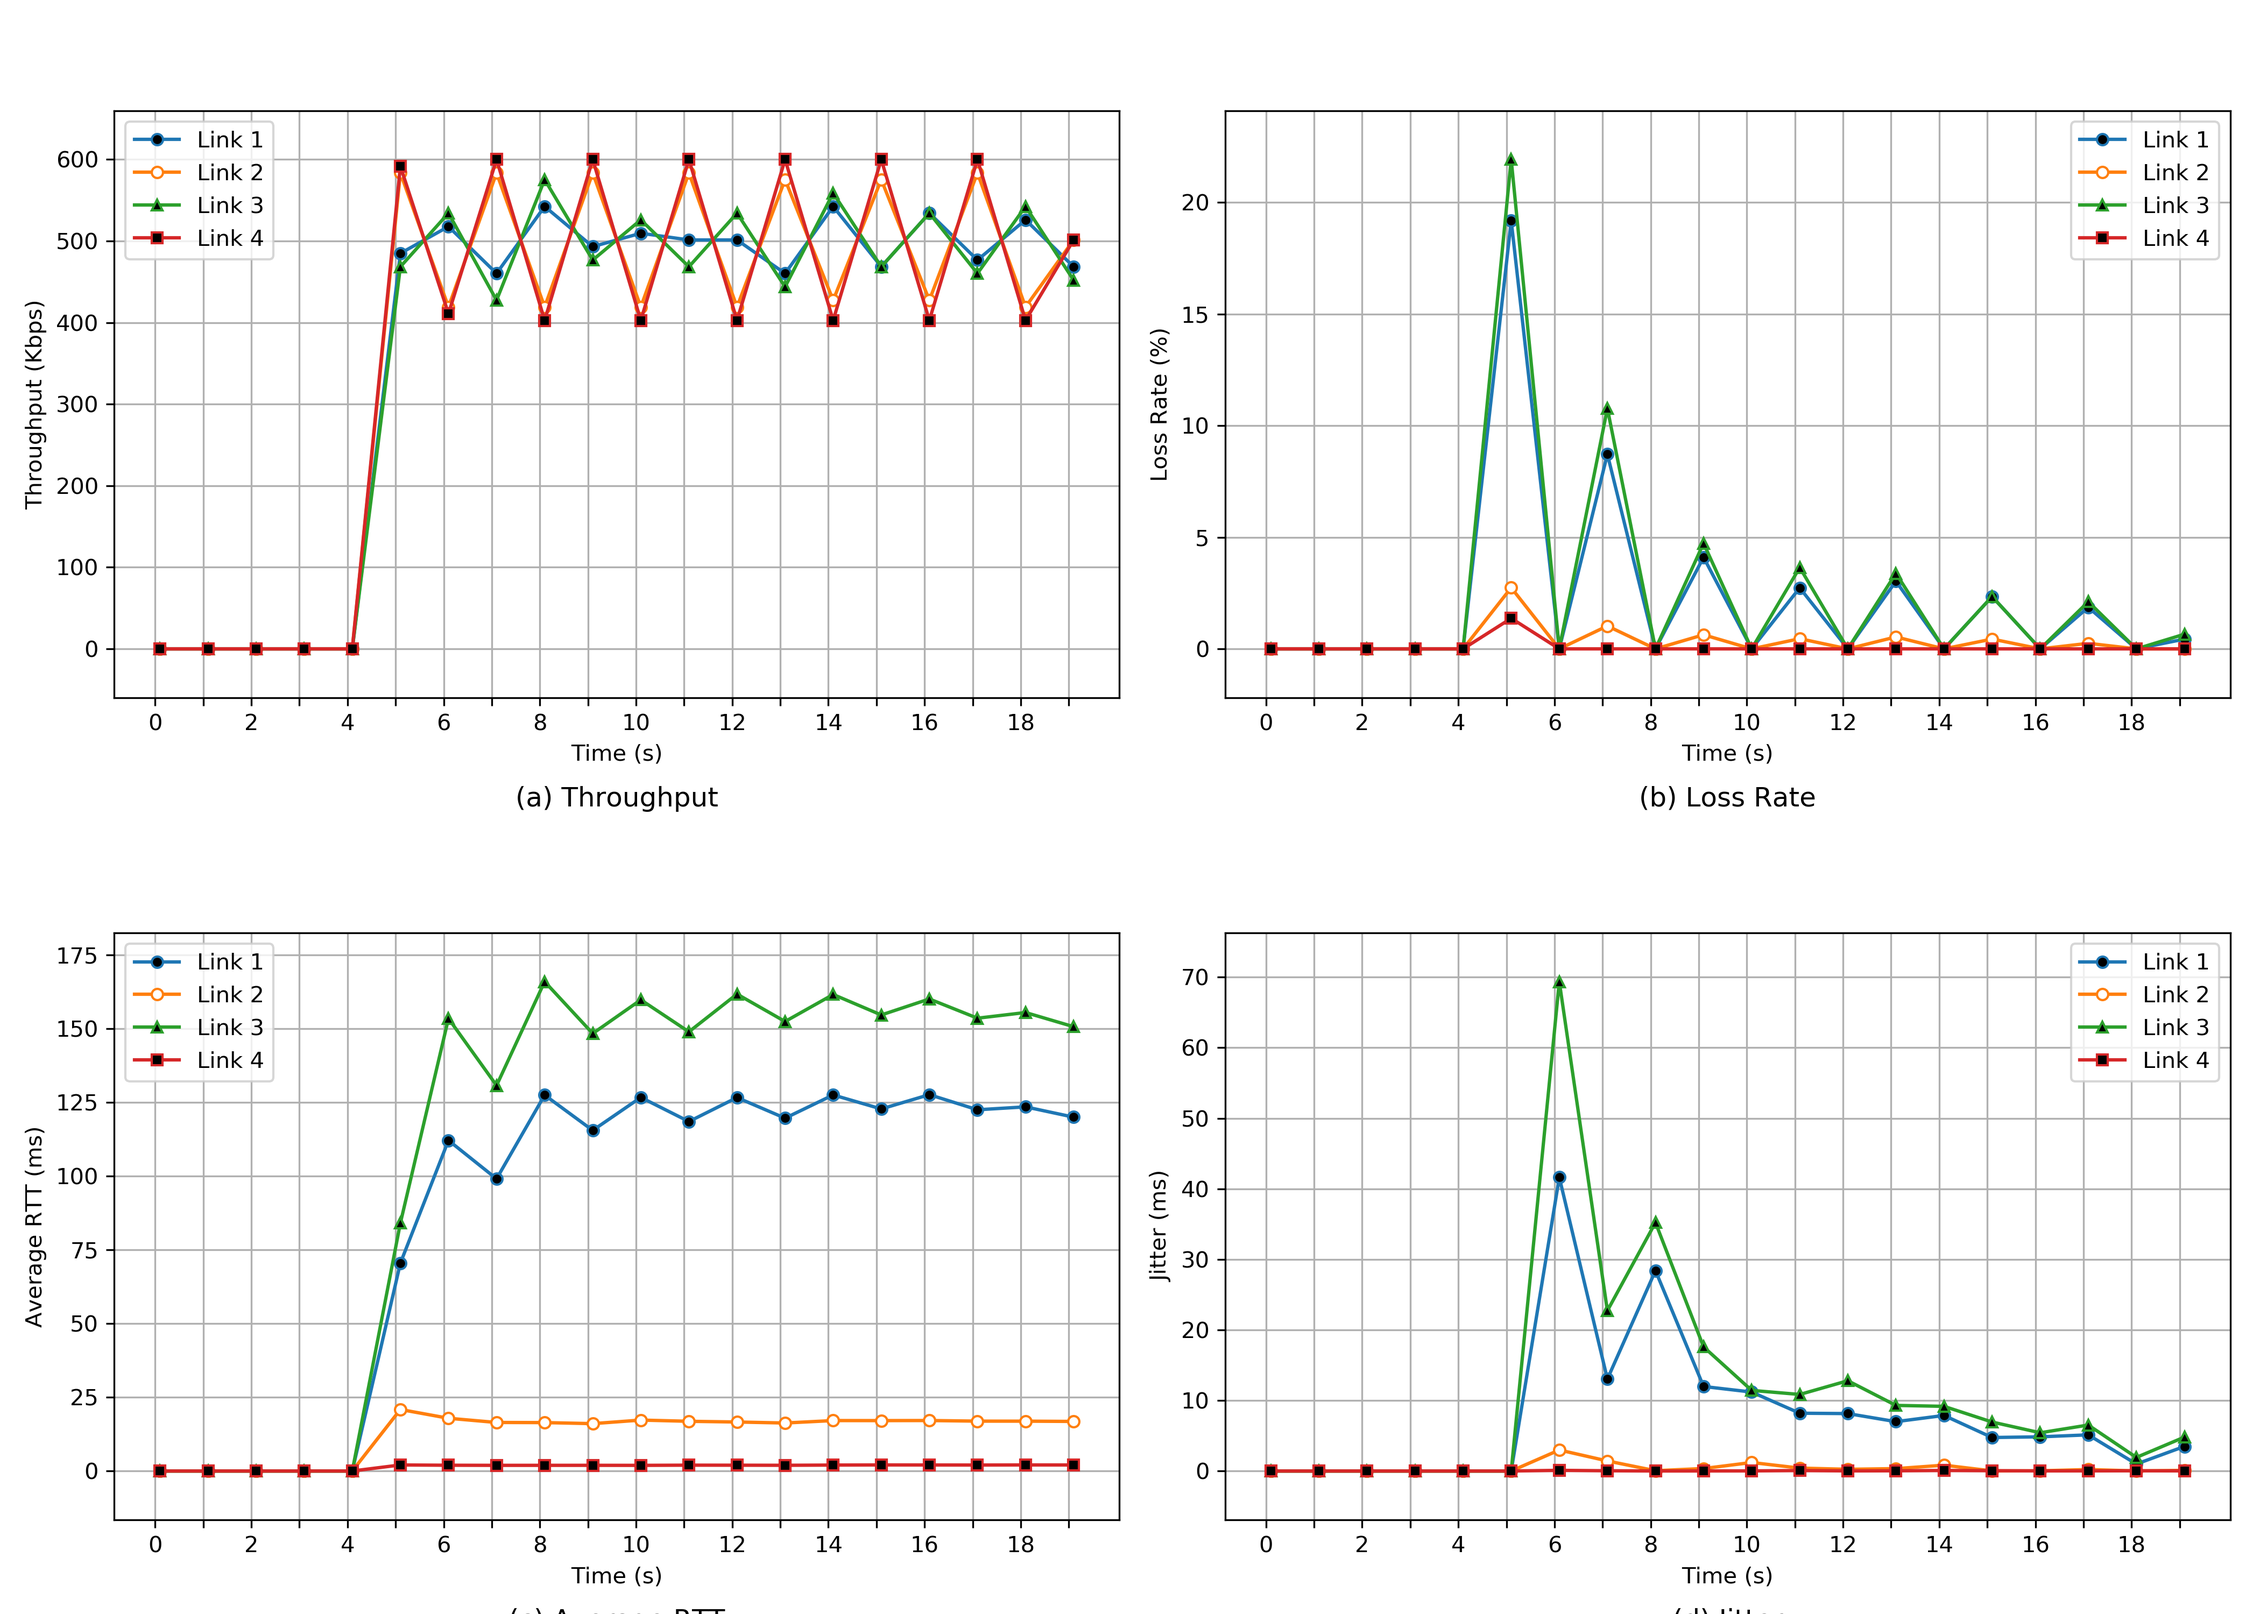
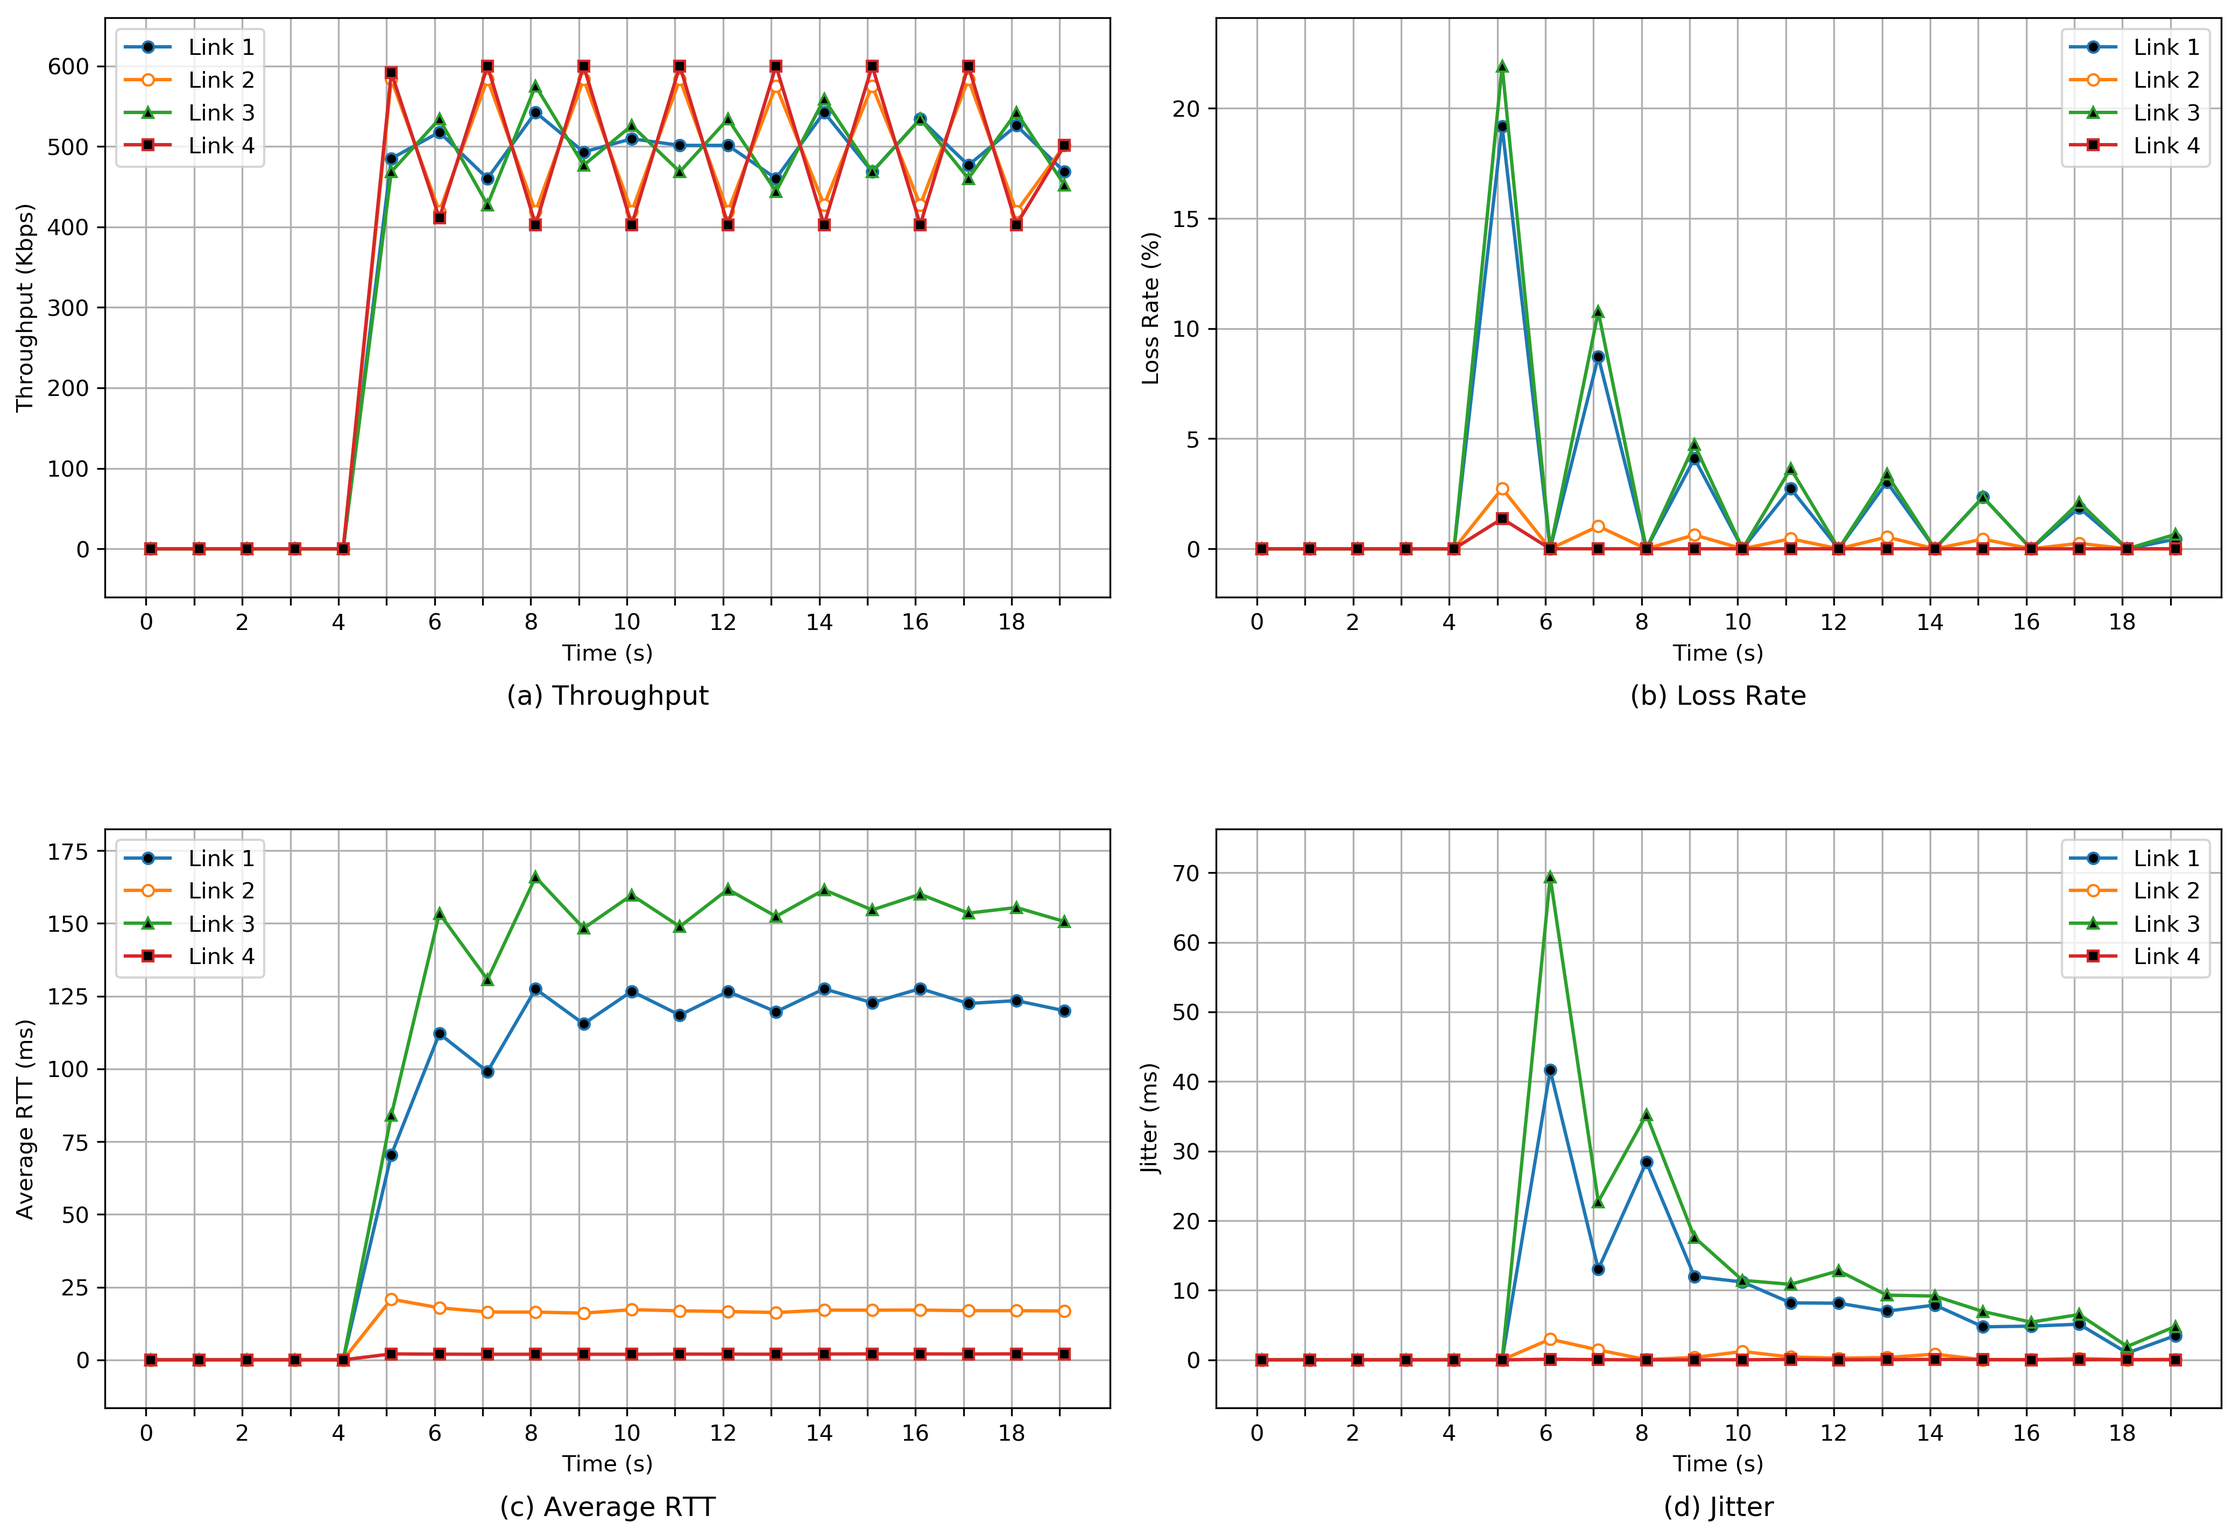
小修复

Changed region(s): [[0.0, 0.5296, 0.9998, 1.0], [0.0, 0.0, 0.4999, 0.4984], [0.4686, 0.0, 0.9998, 0.4984]]

diff --git a/plot_flow.py b/plot_flow.py
@@ -99,7 +99,8 @@ plot_on_axes(axs[1, 1],
              "Jitter (ms)", "(d) Jitter")
 
 # ========== 布局调整 & 保存 ==========
-plt.tight_layout(rect=[0, 0, 1, 0.95])
-plt.subplots_adjust(hspace=0.4)
-plt.savefig("flow_stats_merged.png", dpi=300)
+# ========== 布局调整 & 保存 ==========
+plt.tight_layout(rect=[0, 0.08, 1, 1])   # 给底部留 8%
+plt.subplots_adjust(hspace=0.4, bottom=0.12)
+plt.savefig("flow_stats_merged.png", dpi=300, bbox_inches='tight')
 plt.show()
